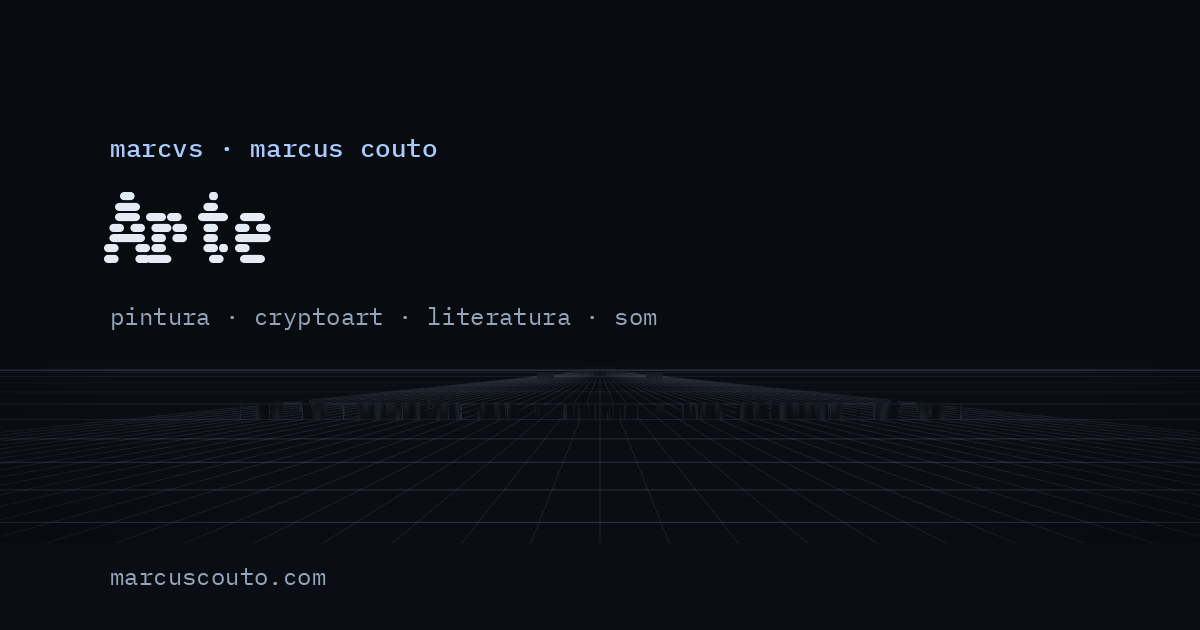
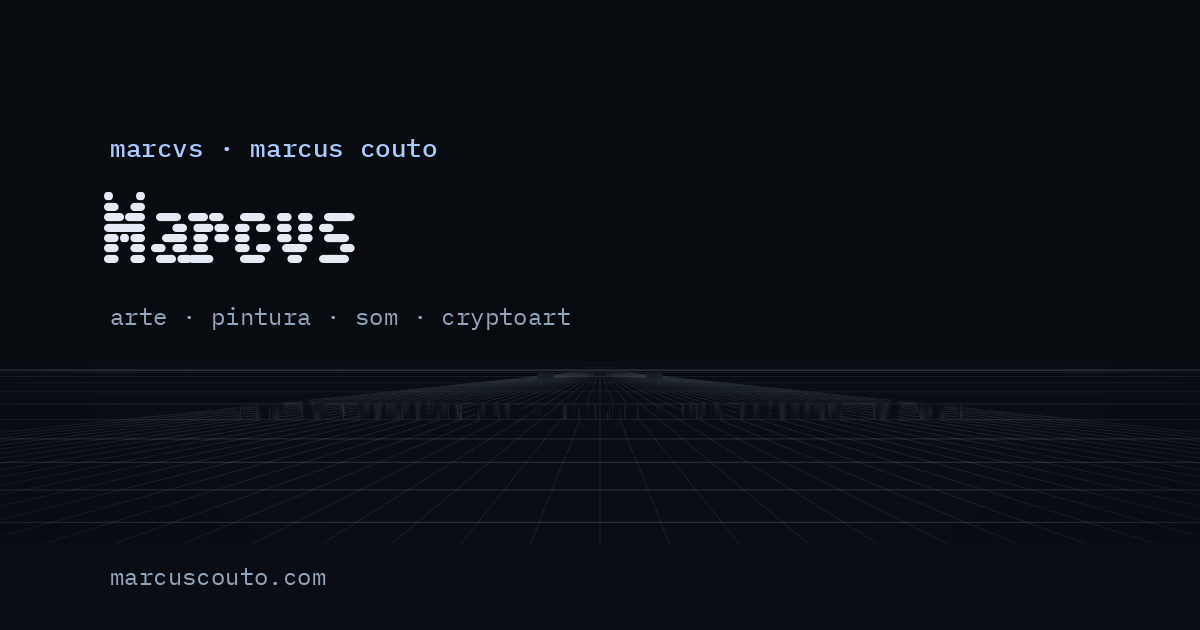
Arte como landing do Marcvs e kit de virada do marcvs.art
- /arte/: título Marcvs, texto de apresentação da pesquisa (Basilisco, Osasco Dynamics, cryptoart)
- Aba e compartilhamento: "Marcvs — Arte, pintura, som e cryptoart"; og:image nova
- docs/virada-marcvs-art/: páginas de redirecionamento prontas para o repositório marcvsart,
  mapa de endereços (mapa.csv) e passo a passo

Claude-Session: https://claude.ai/code/session_01FrUhFbahMPFfCPa88AS5v2

Changed region(s): [[0.0617, 0.3016, 0.3083, 0.4222], [0.0925, 0.4825, 0.4933, 0.5429], [0.5242, 0.4825, 0.555, 0.5127]]

diff --git a/arte/index.html b/arte/index.html
@@ -3,8 +3,8 @@
 <head>
 <meta charset="utf-8">
 <meta name="viewport" content="width=device-width, initial-scale=1">
-<title>Arte — Marcus Couto</title>
-<meta name="description" content="Arte de Marcus Couto (marcvs): pintura, cryptoart, literatura e som. Retratos do Basilisco e coleções em Ethereum, Tezos e Bitcoin.">
+<title>Marcvs — Arte, pintura, som e cryptoart</title>
+<meta name="description" content="Marcvs, a prática artística de Marcus Couto: as fantasias que a cultura projeta sobre as máquinas, em Retratos do Basilisco, no Osasco Dynamics e na cryptoart.">
 <meta name="theme-color" content="#080b10">
 <link rel="canonical" href="https://marcuscouto.com/arte/">
 <link rel="alternate" hreflang="pt-BR" href="https://marcuscouto.com/arte/">
@@ -12,8 +12,8 @@
 <meta property="og:locale" content="pt_BR">
 <meta property="og:site_name" content="Marcus Couto">
 <meta property="og:url" content="https://marcuscouto.com/arte/">
-<meta property="og:title" content="Arte — Marcus Couto">
-<meta property="og:description" content="Arte de Marcus Couto (marcvs): pintura, cryptoart, literatura e som. Retratos do Basilisco e coleções em Ethereum, Tezos e Bitcoin.">
+<meta property="og:title" content="Marcvs — Arte, pintura, som e cryptoart">
+<meta property="og:description" content="Marcvs, a prática artística de Marcus Couto: as fantasias que a cultura projeta sobre as máquinas, em Retratos do Basilisco, no Osasco Dynamics e na cryptoart.">
 <meta property="og:image" content="https://marcuscouto.com/assets/img/og/arte.png">
 <meta property="og:image:width" content="1200">
 <meta property="og:image:height" content="630">
@@ -36,8 +36,9 @@
 <script src="/assets/js/layout.js"></script>
 <main id="main">
 <header class="page-head">
-  <div class="title-row"><svg class="sigil sigil-arte" viewBox="0 0 78 78" aria-hidden="true" focusable="false" fill="currentColor"><rect x="36.75" y="0.75" width="4.5" height="4.5" style="--d:1.08s"/><rect x="30.75" y="6.75" width="4.5" height="4.5" style="--d:0.94s"/><rect x="36.75" y="6.75" width="4.5" height="4.5" style="--d:1.08s"/><rect x="42.75" y="6.75" width="4.5" height="4.5" style="--d:1.22s"/><rect x="12.75" y="12.75" width="4.5" height="4.5" style="--d:0.54s"/><rect x="18.75" y="12.75" width="4.5" height="4.5" style="--d:0.64s"/><rect x="30.75" y="12.75" width="4.5" height="4.5" style="--d:0.91s"/><rect x="36.75" y="12.75" width="4.5" height="4.5" style="--d:1.08s"/><rect x="42.75" y="12.75" width="4.5" height="4.5" style="--d:1.25s"/><rect x="54.75" y="12.75" width="4.5" height="4.5" style="--d:1.52s"/><rect x="60.75" y="12.75" width="4.5" height="4.5" style="--d:1.62s"/><rect x="12.75" y="18.75" width="4.5" height="4.5" style="--d:0.44s"/><rect x="18.75" y="18.75" width="4.5" height="4.5" style="--d:0.54s"/><rect x="24.75" y="18.75" width="4.5" height="4.5" style="--d:0.68s"/><rect x="30.75" y="18.75" width="4.5" height="4.5" style="--d:0.86s"/><rect x="36.75" y="18.75" width="4.5" height="4.5" style="--d:1.08s"/><rect x="42.75" y="18.75" width="4.5" height="4.5" style="--d:1.30s"/><rect x="48.75" y="18.75" width="4.5" height="4.5" style="--d:1.48s"/><rect x="54.75" y="18.75" width="4.5" height="4.5" style="--d:1.62s"/><rect x="60.75" y="18.75" width="4.5" height="4.5" style="--d:1.72s"/><rect x="18.75" y="24.75" width="4.5" height="4.5" style="--d:0.40s"/><rect x="54.75" y="24.75" width="4.5" height="4.5" style="--d:1.76s"/><rect x="6.75" y="30.75" width="4.5" height="4.5" style="--d:0.14s"/><rect x="12.75" y="30.75" width="4.5" height="4.5" style="--d:0.17s"/><rect x="18.75" y="30.75" width="4.5" height="4.5" style="--d:0.22s"/><rect x="54.75" y="30.75" width="4.5" height="4.5" style="--d:1.94s"/><rect x="60.75" y="30.75" width="4.5" height="4.5" style="--d:1.99s"/><rect x="66.75" y="30.75" width="4.5" height="4.5" style="--d:2.02s"/><rect x="0.75" y="36.75" width="4.5" height="4.5" style="--d:4.32s"/><rect x="6.75" y="36.75" width="4.5" height="4.5" style="--d:4.32s"/><rect x="12.75" y="36.75" width="4.5" height="4.5" style="--d:4.32s"/><rect x="18.75" y="36.75" width="4.5" height="4.5" style="--d:4.32s"/><rect x="36.75" y="36.75" width="4.5" height="4.5" style="--d:0.00s"/><rect x="54.75" y="36.75" width="4.5" height="4.5" style="--d:2.16s"/><rect x="60.75" y="36.75" width="4.5" height="4.5" style="--d:2.16s"/><rect x="66.75" y="36.75" width="4.5" height="4.5" style="--d:2.16s"/><rect x="72.75" y="36.75" width="4.5" height="4.5" style="--d:2.16s"/><rect x="6.75" y="42.75" width="4.5" height="4.5" style="--d:4.18s"/><rect x="12.75" y="42.75" width="4.5" height="4.5" style="--d:4.15s"/><rect x="18.75" y="42.75" width="4.5" height="4.5" style="--d:4.10s"/><rect x="54.75" y="42.75" width="4.5" height="4.5" style="--d:2.38s"/><rect x="60.75" y="42.75" width="4.5" height="4.5" style="--d:2.33s"/><rect x="66.75" y="42.75" width="4.5" height="4.5" style="--d:2.30s"/><rect x="18.75" y="48.75" width="4.5" height="4.5" style="--d:3.92s"/><rect x="54.75" y="48.75" width="4.5" height="4.5" style="--d:2.56s"/><rect x="12.75" y="54.75" width="4.5" height="4.5" style="--d:3.88s"/><rect x="18.75" y="54.75" width="4.5" height="4.5" style="--d:3.78s"/><rect x="24.75" y="54.75" width="4.5" height="4.5" style="--d:3.64s"/><rect x="30.75" y="54.75" width="4.5" height="4.5" style="--d:3.46s"/><rect x="36.75" y="54.75" width="4.5" height="4.5" style="--d:3.24s"/><rect x="42.75" y="54.75" width="4.5" height="4.5" style="--d:3.02s"/><rect x="48.75" y="54.75" width="4.5" height="4.5" style="--d:2.84s"/><rect x="54.75" y="54.75" width="4.5" height="4.5" style="--d:2.70s"/><rect x="60.75" y="54.75" width="4.5" height="4.5" style="--d:2.60s"/><rect x="12.75" y="60.75" width="4.5" height="4.5" style="--d:3.78s"/><rect x="18.75" y="60.75" width="4.5" height="4.5" style="--d:3.68s"/><rect x="30.75" y="60.75" width="4.5" height="4.5" style="--d:3.41s"/><rect x="36.75" y="60.75" width="4.5" height="4.5" style="--d:3.24s"/><rect x="42.75" y="60.75" width="4.5" height="4.5" style="--d:3.07s"/><rect x="54.75" y="60.75" width="4.5" height="4.5" style="--d:2.80s"/><rect x="60.75" y="60.75" width="4.5" height="4.5" style="--d:2.70s"/><rect x="30.75" y="66.75" width="4.5" height="4.5" style="--d:3.38s"/><rect x="36.75" y="66.75" width="4.5" height="4.5" style="--d:3.24s"/><rect x="42.75" y="66.75" width="4.5" height="4.5" style="--d:3.10s"/><rect x="36.75" y="72.75" width="4.5" height="4.5" style="--d:3.24s"/></svg><h1>Arte</h1></div>
+  <div class="title-row"><svg class="sigil sigil-arte" viewBox="0 0 78 78" aria-hidden="true" focusable="false" fill="currentColor"><rect x="36.75" y="0.75" width="4.5" height="4.5" style="--d:1.08s"/><rect x="30.75" y="6.75" width="4.5" height="4.5" style="--d:0.94s"/><rect x="36.75" y="6.75" width="4.5" height="4.5" style="--d:1.08s"/><rect x="42.75" y="6.75" width="4.5" height="4.5" style="--d:1.22s"/><rect x="12.75" y="12.75" width="4.5" height="4.5" style="--d:0.54s"/><rect x="18.75" y="12.75" width="4.5" height="4.5" style="--d:0.64s"/><rect x="30.75" y="12.75" width="4.5" height="4.5" style="--d:0.91s"/><rect x="36.75" y="12.75" width="4.5" height="4.5" style="--d:1.08s"/><rect x="42.75" y="12.75" width="4.5" height="4.5" style="--d:1.25s"/><rect x="54.75" y="12.75" width="4.5" height="4.5" style="--d:1.52s"/><rect x="60.75" y="12.75" width="4.5" height="4.5" style="--d:1.62s"/><rect x="12.75" y="18.75" width="4.5" height="4.5" style="--d:0.44s"/><rect x="18.75" y="18.75" width="4.5" height="4.5" style="--d:0.54s"/><rect x="24.75" y="18.75" width="4.5" height="4.5" style="--d:0.68s"/><rect x="30.75" y="18.75" width="4.5" height="4.5" style="--d:0.86s"/><rect x="36.75" y="18.75" width="4.5" height="4.5" style="--d:1.08s"/><rect x="42.75" y="18.75" width="4.5" height="4.5" style="--d:1.30s"/><rect x="48.75" y="18.75" width="4.5" height="4.5" style="--d:1.48s"/><rect x="54.75" y="18.75" width="4.5" height="4.5" style="--d:1.62s"/><rect x="60.75" y="18.75" width="4.5" height="4.5" style="--d:1.72s"/><rect x="18.75" y="24.75" width="4.5" height="4.5" style="--d:0.40s"/><rect x="54.75" y="24.75" width="4.5" height="4.5" style="--d:1.76s"/><rect x="6.75" y="30.75" width="4.5" height="4.5" style="--d:0.14s"/><rect x="12.75" y="30.75" width="4.5" height="4.5" style="--d:0.17s"/><rect x="18.75" y="30.75" width="4.5" height="4.5" style="--d:0.22s"/><rect x="54.75" y="30.75" width="4.5" height="4.5" style="--d:1.94s"/><rect x="60.75" y="30.75" width="4.5" height="4.5" style="--d:1.99s"/><rect x="66.75" y="30.75" width="4.5" height="4.5" style="--d:2.02s"/><rect x="0.75" y="36.75" width="4.5" height="4.5" style="--d:4.32s"/><rect x="6.75" y="36.75" width="4.5" height="4.5" style="--d:4.32s"/><rect x="12.75" y="36.75" width="4.5" height="4.5" style="--d:4.32s"/><rect x="18.75" y="36.75" width="4.5" height="4.5" style="--d:4.32s"/><rect x="36.75" y="36.75" width="4.5" height="4.5" style="--d:0.00s"/><rect x="54.75" y="36.75" width="4.5" height="4.5" style="--d:2.16s"/><rect x="60.75" y="36.75" width="4.5" height="4.5" style="--d:2.16s"/><rect x="66.75" y="36.75" width="4.5" height="4.5" style="--d:2.16s"/><rect x="72.75" y="36.75" width="4.5" height="4.5" style="--d:2.16s"/><rect x="6.75" y="42.75" width="4.5" height="4.5" style="--d:4.18s"/><rect x="12.75" y="42.75" width="4.5" height="4.5" style="--d:4.15s"/><rect x="18.75" y="42.75" width="4.5" height="4.5" style="--d:4.10s"/><rect x="54.75" y="42.75" width="4.5" height="4.5" style="--d:2.38s"/><rect x="60.75" y="42.75" width="4.5" height="4.5" style="--d:2.33s"/><rect x="66.75" y="42.75" width="4.5" height="4.5" style="--d:2.30s"/><rect x="18.75" y="48.75" width="4.5" height="4.5" style="--d:3.92s"/><rect x="54.75" y="48.75" width="4.5" height="4.5" style="--d:2.56s"/><rect x="12.75" y="54.75" width="4.5" height="4.5" style="--d:3.88s"/><rect x="18.75" y="54.75" width="4.5" height="4.5" style="--d:3.78s"/><rect x="24.75" y="54.75" width="4.5" height="4.5" style="--d:3.64s"/><rect x="30.75" y="54.75" width="4.5" height="4.5" style="--d:3.46s"/><rect x="36.75" y="54.75" width="4.5" height="4.5" style="--d:3.24s"/><rect x="42.75" y="54.75" width="4.5" height="4.5" style="--d:3.02s"/><rect x="48.75" y="54.75" width="4.5" height="4.5" style="--d:2.84s"/><rect x="54.75" y="54.75" width="4.5" height="4.5" style="--d:2.70s"/><rect x="60.75" y="54.75" width="4.5" height="4.5" style="--d:2.60s"/><rect x="12.75" y="60.75" width="4.5" height="4.5" style="--d:3.78s"/><rect x="18.75" y="60.75" width="4.5" height="4.5" style="--d:3.68s"/><rect x="30.75" y="60.75" width="4.5" height="4.5" style="--d:3.41s"/><rect x="36.75" y="60.75" width="4.5" height="4.5" style="--d:3.24s"/><rect x="42.75" y="60.75" width="4.5" height="4.5" style="--d:3.07s"/><rect x="54.75" y="60.75" width="4.5" height="4.5" style="--d:2.80s"/><rect x="60.75" y="60.75" width="4.5" height="4.5" style="--d:2.70s"/><rect x="30.75" y="66.75" width="4.5" height="4.5" style="--d:3.38s"/><rect x="36.75" y="66.75" width="4.5" height="4.5" style="--d:3.24s"/><rect x="42.75" y="66.75" width="4.5" height="4.5" style="--d:3.10s"/><rect x="36.75" y="72.75" width="4.5" height="4.5" style="--d:3.24s"/></svg><h1>Marcvs</h1></div>
   <p class="kicker"><em>Onde a pesquisa vira obra: pintura, cryptoart, literatura e som.</em></p>
+  <div class="lead"><p>Minha prática artística investiga as fantasias que a cultura projeta sobre as máquinas. Em <em>Retratos do Basilisco</em>, peço a um modelo generativo obsoleto, rodando localmente e sem filtros, que mostre como ele é, e pinto à mão o que ele devolve: a singularidade como escatologia com vocabulário de engenharia. No som, o Osasco Dynamics imagina uma empresa de tecnologia distópica em plena decadência. Na cryptoart, uso a blockchain como linguagem e como arquivo, uma memória permanente e duvidosa. São cartografias da tecnocracia: imagem, som e texto como estratos de um mesmo território.</p></div>
 </header>
 <section class="section" id="pintura-cryptoart" aria-labelledby="h-pintura">
   <h2 class="section-title" id="h-pintura"><span data-node>Pintura &amp; Cryptoart</span></h2>

diff --git a/docs/virada-marcvs-art/marcvsart/404.html b/docs/virada-marcvs-art/marcvsart/404.html
@@ -1,0 +1,17 @@
+<!doctype html>
+<html lang="pt-BR">
+<head>
+<meta charset="utf-8">
+<meta name="viewport" content="width=device-width, initial-scale=1">
+<title>Marcvs — mudou para marcuscouto.com</title>
+<meta name="robots" content="noindex">
+<link rel="canonical" href="https://marcuscouto.com/arte/">
+<script>var p = location.pathname, t = "/arte/"; if (p.indexOf("/films/") === 0) t = "/projetos/zombiebasilisk/#filmes"; else if (p.indexOf("/paintings/") === 0) t = "/arte/#pintura-cryptoart"; location.replace("https://marcuscouto.com" + t);</script>
+<meta http-equiv="refresh" content="0; url=https://marcuscouto.com/arte/">
+<style>body{margin:0;padding:40px 20px;background:#080b10;color:#c0cede;font:400 16px/1.7 "IBM Plex Mono",ui-monospace,monospace}a{color:#a9caff}</style>
+</head>
+<body>
+<p>Marcvs mudou para <a href="https://marcuscouto.com/arte/">https://marcuscouto.com/arte/</a>.</p>
+<script data-goatcounter="https://marcvs.goatcounter.com/count" async src="//gc.zgo.at/count.js"></script>
+</body>
+</html>

diff --git a/docs/virada-marcvs-art/marcvsart/cryptoart.html b/docs/virada-marcvs-art/marcvsart/cryptoart.html
@@ -1,0 +1,17 @@
+<!doctype html>
+<html lang="pt-BR">
+<head>
+<meta charset="utf-8">
+<meta name="viewport" content="width=device-width, initial-scale=1">
+<title>Coleções de cryptoart — mudou para marcuscouto.com</title>
+<meta name="robots" content="noindex">
+<link rel="canonical" href="https://marcuscouto.com/arte/#pintura-cryptoart">
+<script>location.replace("https://marcuscouto.com/arte/#pintura-cryptoart");</script>
+<meta http-equiv="refresh" content="0; url=https://marcuscouto.com/arte/#pintura-cryptoart">
+<style>body{margin:0;padding:40px 20px;background:#080b10;color:#c0cede;font:400 16px/1.7 "IBM Plex Mono",ui-monospace,monospace}a{color:#a9caff}</style>
+</head>
+<body>
+<p>Coleções de cryptoart mudou para <a href="https://marcuscouto.com/arte/#pintura-cryptoart">https://marcuscouto.com/arte/#pintura-cryptoart</a>.</p>
+<script data-goatcounter="https://marcvs.goatcounter.com/count" async src="//gc.zgo.at/count.js"></script>
+</body>
+</html>

diff --git a/docs/virada-marcvs-art/marcvsart/portraits-of-the-basilisk.html b/docs/virada-marcvs-art/marcvsart/portraits-of-the-basilisk.html
@@ -1,0 +1,17 @@
+<!doctype html>
+<html lang="pt-BR">
+<head>
+<meta charset="utf-8">
+<meta name="viewport" content="width=device-width, initial-scale=1">
+<title>Retratos do Basilisco — mudou para marcuscouto.com</title>
+<meta name="robots" content="noindex">
+<link rel="canonical" href="https://marcuscouto.com/arte/#pintura-cryptoart">
+<script>location.replace("https://marcuscouto.com/arte/#pintura-cryptoart");</script>
+<meta http-equiv="refresh" content="0; url=https://marcuscouto.com/arte/#pintura-cryptoart">
+<style>body{margin:0;padding:40px 20px;background:#080b10;color:#c0cede;font:400 16px/1.7 "IBM Plex Mono",ui-monospace,monospace}a{color:#a9caff}</style>
+</head>
+<body>
+<p>Retratos do Basilisco mudou para <a href="https://marcuscouto.com/arte/#pintura-cryptoart">https://marcuscouto.com/arte/#pintura-cryptoart</a>.</p>
+<script data-goatcounter="https://marcvs.goatcounter.com/count" async src="//gc.zgo.at/count.js"></script>
+</body>
+</html>

diff --git a/docs/virada-marcvs-art/marcvsart/imagem.html b/docs/virada-marcvs-art/marcvsart/imagem.html
@@ -1,0 +1,17 @@
+<!doctype html>
+<html lang="pt-BR">
+<head>
+<meta charset="utf-8">
+<meta name="viewport" content="width=device-width, initial-scale=1">
+<title>Pintura e cryptoart — mudou para marcuscouto.com</title>
+<meta name="robots" content="noindex">
+<link rel="canonical" href="https://marcuscouto.com/arte/#pintura-cryptoart">
+<script>location.replace("https://marcuscouto.com/arte/#pintura-cryptoart");</script>
+<meta http-equiv="refresh" content="0; url=https://marcuscouto.com/arte/#pintura-cryptoart">
+<style>body{margin:0;padding:40px 20px;background:#080b10;color:#c0cede;font:400 16px/1.7 "IBM Plex Mono",ui-monospace,monospace}a{color:#a9caff}</style>
+</head>
+<body>
+<p>Pintura e cryptoart mudou para <a href="https://marcuscouto.com/arte/#pintura-cryptoart">https://marcuscouto.com/arte/#pintura-cryptoart</a>.</p>
+<script data-goatcounter="https://marcvs.goatcounter.com/count" async src="//gc.zgo.at/count.js"></script>
+</body>
+</html>

diff --git a/docs/virada-marcvs-art/marcvsart/visuals.html b/docs/virada-marcvs-art/marcvsart/visuals.html
@@ -1,0 +1,17 @@
+<!doctype html>
+<html lang="pt-BR">
+<head>
+<meta charset="utf-8">
+<meta name="viewport" content="width=device-width, initial-scale=1">
+<title>Pintura e cryptoart — mudou para marcuscouto.com</title>
+<meta name="robots" content="noindex">
+<link rel="canonical" href="https://marcuscouto.com/arte/#pintura-cryptoart">
+<script>location.replace("https://marcuscouto.com/arte/#pintura-cryptoart");</script>
+<meta http-equiv="refresh" content="0; url=https://marcuscouto.com/arte/#pintura-cryptoart">
+<style>body{margin:0;padding:40px 20px;background:#080b10;color:#c0cede;font:400 16px/1.7 "IBM Plex Mono",ui-monospace,monospace}a{color:#a9caff}</style>
+</head>
+<body>
+<p>Pintura e cryptoart mudou para <a href="https://marcuscouto.com/arte/#pintura-cryptoart">https://marcuscouto.com/arte/#pintura-cryptoart</a>.</p>
+<script data-goatcounter="https://marcvs.goatcounter.com/count" async src="//gc.zgo.at/count.js"></script>
+</body>
+</html>

diff --git a/docs/virada-marcvs-art/marcvsart/texto.html b/docs/virada-marcvs-art/marcvsart/texto.html
@@ -1,0 +1,17 @@
+<!doctype html>
+<html lang="pt-BR">
+<head>
+<meta charset="utf-8">
+<meta name="viewport" content="width=device-width, initial-scale=1">
+<title>Literatura — mudou para marcuscouto.com</title>
+<meta name="robots" content="noindex">
+<link rel="canonical" href="https://marcuscouto.com/arte/#literatura">
+<script>location.replace("https://marcuscouto.com/arte/#literatura");</script>
+<meta http-equiv="refresh" content="0; url=https://marcuscouto.com/arte/#literatura">
+<style>body{margin:0;padding:40px 20px;background:#080b10;color:#c0cede;font:400 16px/1.7 "IBM Plex Mono",ui-monospace,monospace}a{color:#a9caff}</style>
+</head>
+<body>
+<p>Literatura mudou para <a href="https://marcuscouto.com/arte/#literatura">https://marcuscouto.com/arte/#literatura</a>.</p>
+<script data-goatcounter="https://marcvs.goatcounter.com/count" async src="//gc.zgo.at/count.js"></script>
+</body>
+</html>

diff --git a/docs/virada-marcvs-art/marcvsart/som.html b/docs/virada-marcvs-art/marcvsart/som.html
@@ -1,0 +1,17 @@
+<!doctype html>
+<html lang="pt-BR">
+<head>
+<meta charset="utf-8">
+<meta name="viewport" content="width=device-width, initial-scale=1">
+<title>Som — mudou para marcuscouto.com</title>
+<meta name="robots" content="noindex">
+<link rel="canonical" href="https://marcuscouto.com/arte/som/">
+<script>location.replace("https://marcuscouto.com/arte/som/" + location.hash);</script>
+<meta http-equiv="refresh" content="0; url=https://marcuscouto.com/arte/som/">
+<style>body{margin:0;padding:40px 20px;background:#080b10;color:#c0cede;font:400 16px/1.7 "IBM Plex Mono",ui-monospace,monospace}a{color:#a9caff}</style>
+</head>
+<body>
+<p>Som mudou para <a href="https://marcuscouto.com/arte/som/">https://marcuscouto.com/arte/som/</a>.</p>
+<script data-goatcounter="https://marcvs.goatcounter.com/count" async src="//gc.zgo.at/count.js"></script>
+</body>
+</html>

diff --git a/docs/virada-marcvs-art/marcvsart/index.html b/docs/virada-marcvs-art/marcvsart/index.html
@@ -1,0 +1,17 @@
+<!doctype html>
+<html lang="pt-BR">
+<head>
+<meta charset="utf-8">
+<meta name="viewport" content="width=device-width, initial-scale=1">
+<title>Marcvs — mudou para marcuscouto.com</title>
+<meta name="robots" content="noindex">
+<link rel="canonical" href="https://marcuscouto.com/arte/">
+<script>location.replace("https://marcuscouto.com/arte/" + location.hash);</script>
+<meta http-equiv="refresh" content="0; url=https://marcuscouto.com/arte/">
+<style>body{margin:0;padding:40px 20px;background:#080b10;color:#c0cede;font:400 16px/1.7 "IBM Plex Mono",ui-monospace,monospace}a{color:#a9caff}</style>
+</head>
+<body>
+<p>Marcvs mudou para <a href="https://marcuscouto.com/arte/">https://marcuscouto.com/arte/</a>.</p>
+<script data-goatcounter="https://marcvs.goatcounter.com/count" async src="//gc.zgo.at/count.js"></script>
+</body>
+</html>

diff --git a/docs/virada-marcvs-art/marcvsart/bio.html b/docs/virada-marcvs-art/marcvsart/bio.html
@@ -1,0 +1,17 @@
+<!doctype html>
+<html lang="pt-BR">
+<head>
+<meta charset="utf-8">
+<meta name="viewport" content="width=device-width, initial-scale=1">
+<title>Marcus Couto — mudou para marcuscouto.com</title>
+<meta name="robots" content="noindex">
+<link rel="canonical" href="https://marcuscouto.com/">
+<script>location.replace("https://marcuscouto.com/" + location.hash);</script>
+<meta http-equiv="refresh" content="0; url=https://marcuscouto.com/">
+<style>body{margin:0;padding:40px 20px;background:#080b10;color:#c0cede;font:400 16px/1.7 "IBM Plex Mono",ui-monospace,monospace}a{color:#a9caff}</style>
+</head>
+<body>
+<p>Marcus Couto mudou para <a href="https://marcuscouto.com/">https://marcuscouto.com/</a>.</p>
+<script data-goatcounter="https://marcvs.goatcounter.com/count" async src="//gc.zgo.at/count.js"></script>
+</body>
+</html>

diff --git a/docs/virada-marcvs-art/README.md b/docs/virada-marcvs-art/README.md
@@ -1,0 +1,59 @@
+# Virada do marcvs.art → marcuscouto.com/arte/
+
+Kit para o marcvs.art passar a levar à página Marcvs (`/arte/`) do site unificado, com cada endereço antigo apontando para o equivalente novo.
+
+## Como está hoje
+
+- **DNS:** marcvs.art e marcuscouto.com usam o DNS do registrador (Namecheap, `registrar-servers.com`) e apontam para o GitHub Pages. Não há Cloudflare.
+- **marcvs.art:** é servido pelo repositório `marcvsart/marcvsart` (arquivo `CNAME` = `marcvs.art`).
+- **Consequência:** a virada não exige mexer no DNS. Basta trocar o conteúdo do repositório `marcvsart` pelas páginas de redirecionamento desta pasta.
+
+## Mapa de endereços
+
+Também está em [`mapa.csv`](mapa.csv).
+
+| marcvs.art | vai para |
+|---|---|
+| `/` | `/arte/` |
+| `/portraits-of-the-basilisk.html` | `/arte/#pintura-cryptoart` |
+| `/cryptoart.html` | `/arte/#pintura-cryptoart` |
+| `/imagem.html`, `/visuals.html` | `/arte/#pintura-cryptoart` |
+| `/som.html` | `/arte/som/` (mantém a âncora: `#osasco-dynamics` continua funcionando) |
+| `/texto.html` | `/arte/#literatura` |
+| `/bio.html` | `/` (home, com a apresentação) |
+| `/films/*` | `/projetos/zombiebasilisk/#filmes` |
+| `/paintings/*` | `/arte/#pintura-cryptoart` |
+| qualquer outro | `/arte/` (via `404.html`) |
+
+## Passo a passo
+
+1. **Confira o site novo.** A página `/arte/` (Marcvs) precisa estar publicada no marcuscouto.com.
+2. **Faça um backup do repositório `marcvsart/marcvsart`.** Uma tag basta, por exemplo `antes-da-virada`, para poder voltar se precisar.
+3. **Substitua o conteúdo do repositório `marcvsart`** pelos arquivos da pasta [`marcvsart/`](marcvsart/):
+   - `index.html`, `bio.html`, `cryptoart.html`, `imagem.html`, `visuals.html`, `som.html`, `texto.html`, `portraits-of-the-basilisk.html`, `404.html`;
+   - `CNAME` (continua `marcvs.art`) e `.nojekyll`.
+
+   Pode apagar o resto: `films/`, `paintings/`, CSS, JS, `og.png`, `README.md`. As imagens já estão copiadas no site novo, e qualquer endereço apagado cai no `404.html`, que também redireciona.
+4. **Ative "Enforce HTTPS"** em Settings → Pages do repositório `marcvsart`. Hoje `http://marcvs.art` não redireciona para `https`.
+5. **Teste no navegador**, alguns minutos depois do publish:
+   - `https://marcvs.art/` → `https://marcuscouto.com/arte/`
+   - `https://marcvs.art/som.html#osasco-dynamics` → `https://marcuscouto.com/arte/som/#osasco-dynamics`
+   - `https://marcvs.art/portraits-of-the-basilisk.html` → `https://marcuscouto.com/arte/#pintura-cryptoart`
+   - `https://marcvs.art/qualquer-coisa` → `https://marcuscouto.com/arte/`
+6. **Perfis e bios.** Os links que apontam para marcvs.art (Instagram, objkt, Transient, Manifold etc.) podem ficar como estão, porque redirecionam. Se quiser, troque aos poucos por `marcuscouto.com/arte/`.
+
+## Como os redirecionamentos funcionam
+
+O GitHub Pages não faz redirecionamento 301 no servidor. Por isso cada página usa três recursos:
+
+- um script que redireciona na hora e preserva a âncora (`#…`) quando o destino não tem uma;
+- `meta refresh` como reserva, para quem está sem JavaScript;
+- `canonical` apontando para o endereço novo, para os buscadores transferirem a relevância, e `noindex`, para as páginas antigas saírem do índice.
+
+Cada página também conta a visita no GoatCounter do marcvs (`marcvs.goatcounter.com`), para você ver quanto tráfego ainda chega pelo domínio antigo.
+
+**Mais adiante (opcional):** para ter um 301 de verdade, dá para colocar o marcvs.art atrás do Cloudflare e usar uma regra de redirecionamento com o mesmo mapa. Não é necessário para a virada.
+
+## Regenerar este kit
+
+Os arquivos foram gerados por um script local, a partir do mapa acima. Para mudar um destino, edite a página correspondente em `marcvsart/` e a linha em `mapa.csv`.
